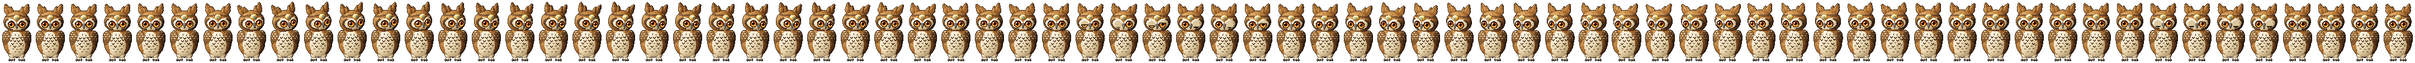
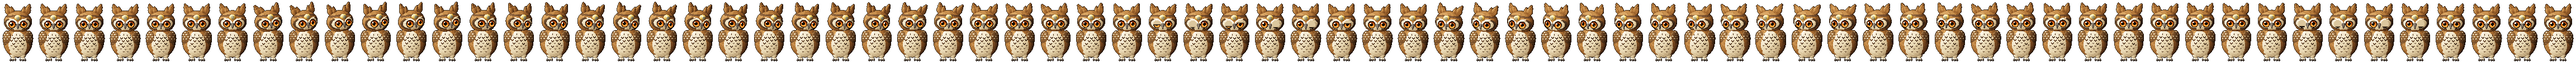
feat(pets): сова-фонарщица в пикселях — рисунок и анимации по эталону боссов
Круглый филин анфас: бледный диск в два кольца, огромные оранжевые глаза,
пучки на пружинах, латунный фонарь на ремешке, кремовая грудь в «галочках»,
сложенные крылья лопастью в пятнах и полосах, оперённые лапы с когтями.
Трюк: фонарь щёлкнул, луч метёт пол, в луче блеснул кристалл, прыжок,
кристалл поднят в лапе, реквизит убран. Свой золотой (медный фонарь).
Вес 611 КБ обе раскраски (тушью было 1,86 МБ).

Claude-Session: https://claude.ai/code/session_018QnrYRe8jfmREkVPy3Dca8

diff --git a/src/lib/pets-pixel/owl.ts b/src/lib/pets-pixel/owl.ts
@@ -943,8 +943,8 @@ function skel(o: Pose): Skel {
     up,
     body: up(BODY0),
     head: up(add(HEAD0, [o.hx, 0, o.hz])),
-    shL: up([-7.4, 1.6, 21.0]),
-    shR: up([7.4, 1.6, 21.0]),
+    shL: up([-7.9, 1.6, 20.8]),
+    shR: up([7.9, 1.6, 20.8]),
     rump: up([0, -4.2, 5.4]),
     hipL: up([-3.6, 1.4, 5.6]),
     hipR: up([3.6, 1.4, 5.6]),
@@ -955,7 +955,7 @@ function skel(o: Pose): Skel {
 }
 
 /** Голова в своих единицах: полуоси, глаза (доли полуосей). */
-const HRX = 9.4;
+const HRX = 10.0;
 const HRY = 6.8;
 const HRZ = 8.0;
 const EYE_X = 0.42;
@@ -1463,7 +1463,7 @@ function body(out: PartF[], c: Ctx): void {
   const fl = o.fluff;
   const ax = axes(rollY([1, 0, 0], o.lean), pitchX([0, 0, 1], o.bow * 0.5));
   const rb: V3 = [
-    (10.0 + fl) * (1 + sq * 0.5) * k,
+    (10.7 + fl) * (1 + sq * 0.5) * k,
     (8.4 + fl * 0.8) * (1 + sq * 0.4) * k,
     (11.4 + fl * 0.5) * (1 - sq) * k,
   ];
@@ -1691,7 +1691,7 @@ function eyes(p: Px, f: Frame, c: Ctx): void {
     const [cx, cy] = scr(ep);
     const facing = clamp01(dot(norm(h.dir([side * 0.3, 1, 0])), VIEW) / 0.96);
     const sxk = Math.max(0.45, facing ** 0.7);
-    let R = HI ? 5.4 : 2.5;
+    let R = HI ? 5.8 : 2.5;
     if (o.eye === 'wide') R *= 1.08;
     const blink = side < 0 ? o.blinkL : o.blinkR;
     const n = Math.ceil(R + 2);
@@ -2012,6 +2012,7 @@ function strikeFx(p: Px, mask: Uint8Array, c: Ctx): void {
 /** Сон: буквы «z» поднимаются над головой и тают. */
 const Z_S = ['zzz', '.z.', 'zzz'];
 const Z_L = ['zzzz', '..z.', '.z..', 'zzzz'];
+const Z_L2 = ['zzzzz', '...z.', '..z..', '.z...', 'zzzzz'];
 function zzz(p: Px, mask: Uint8Array, c: Ctx): void {
   const { h, t } = c;
   for (let j = 0; j < 2; j++) {
@@ -2019,14 +2020,16 @@ function zzz(p: Px, mask: Uint8Array, c: Ctx): void {
     const [sx, sy] = project(mul(h.at([5 + 3.5 * u, 0, 8 + 9 * u]), RR));
     const x0 = Math.round(OX + sx);
     const y0 = Math.round(OY + sy);
-    const rows = HI && u > 0.3 ? Z_L : Z_S;
+    // Крупная «z» растёт по пути; редкая шахматка только на появлении и уходе
+    // (сплошь сквозь шахматку буквы читались точками).
+    const rows = HI ? (u > 0.45 ? Z_L2 : Z_L) : Z_S;
     for (let y = 0; y < rows.length; y++)
       for (let x = 0; x < rows[y].length; x++) {
         if (rows[y][x] !== 'z') continue;
         const X = x0 + x;
         const Y = y0 + y;
         if (X < 0 || Y < 0 || X >= p.w || Y >= p.h || mask[Y * p.w + X]) continue;
-        if (!dith(X, Y, 1.2 * (1 - u) * Math.min(1, u * 6))) continue;
+        if (!dith(X, Y, Math.min(1, 1.8 * (1 - u)) * Math.min(1, u * 5))) continue;
         p.set(X, Y, ZZ);
       }
   }

diff --git a/src/lib/pet-pixel-sprites.ts b/src/lib/pet-pixel-sprites.ts
@@ -70,24 +70,24 @@ export const PET_PX: Record<string, PetPx> = {
   },
   owl: {
     box: 48,
-    rev: '57ad281751',
+    rev: '0a21fecc56',
     anims: {
-      idle: { n: 72, fps: 24, x: 8, y: -3, w: 32, h: 54 },
+      idle: { n: 72, fps: 24, x: 8, y: -3, w: 33, h: 54 },
       walk: { n: 24, fps: 24, x: 3, y: -5, w: 42, h: 56 },
-      happy: { n: 26, fps: 24, x: -5, y: -11, w: 58, h: 62 },
+      happy: { n: 26, fps: 24, x: -6, y: -11, w: 60, h: 62 },
       work: { n: 48, fps: 24, x: -1, y: -8, w: 54, h: 62 },
-      attack: { n: 22, fps: 24, x: -13, y: -3, w: 74, h: 59 },
-      sleep: { n: 72, fps: 24, x: 8, y: 3, w: 34, h: 48 },
+      attack: { n: 22, fps: 24, x: -14, y: -3, w: 76, h: 59 },
+      sleep: { n: 72, fps: 24, x: 7, y: 3, w: 35, h: 48 },
     },
     large: {
       box: 112,
       anims: {
-        idle: { n: 72, fps: 24, x: 26, y: 1, w: 60, h: 113 },
-        walk: { n: 24, fps: 24, x: 14, y: -3, w: 84, h: 117 },
-        happy: { n: 26, fps: 24, x: -7, y: -17, w: 126, h: 131 },
-        work: { n: 48, fps: 24, x: 2, y: -11, w: 116, h: 132 },
-        attack: { n: 22, fps: 24, x: -25, y: 1, w: 162, h: 125 },
-        sleep: { n: 72, fps: 24, x: 24, y: 13, w: 65, h: 101 },
+        idle: { n: 72, fps: 24, x: 24, y: 1, w: 64, h: 113 },
+        walk: { n: 24, fps: 24, x: 13, y: -3, w: 86, h: 117 },
+        happy: { n: 26, fps: 24, x: -8, y: -17, w: 128, h: 131 },
+        work: { n: 48, fps: 24, x: 2, y: -11, w: 117, h: 132 },
+        attack: { n: 22, fps: 24, x: -27, y: 1, w: 166, h: 125 },
+        sleep: { n: 72, fps: 24, x: 23, y: 11, w: 67, h: 103 },
       },
     },
   },

diff --git a/.claude/rules/pets.md b/.claude/rules/pets.md
@@ -277,7 +277,8 @@ Owner: «добавь возможность выбирать скин у пит
   at the viewer f9 (scale 1.18, head up, beak open with red gape, talons forward) → rays round the
   body over empty pixels → settle. Idle: breath, head swivel + tilt with the body still, blink
   left then right, tuft springs, a shake. Sleep: fluffed, head sunk, tufts back, lamp off, zzz.
-  Hatch plays `happy`. Weight OWL_WEIGHT. Tests «пиксельная сова» in `pets-pixel.test.ts`.
+  Hatch plays `happy`. Weight 611 KB v0+v1 (small 65 / 73, large 227 / 244, thumbs 1 KB; ink was
+  1.86 MB). Tests «пиксельная сова» in `pets-pixel.test.ts`.
 - **Грабли**: `rig.ts` импортирует `../dungeon-tiles` ДО `../dungeon-art`
   (иначе круг модулей под vite-node: `hex is not a function`); у `pitchX`
   положительный угол наклоняет «вперёд-вниз» — клюв смотрел в небо;
